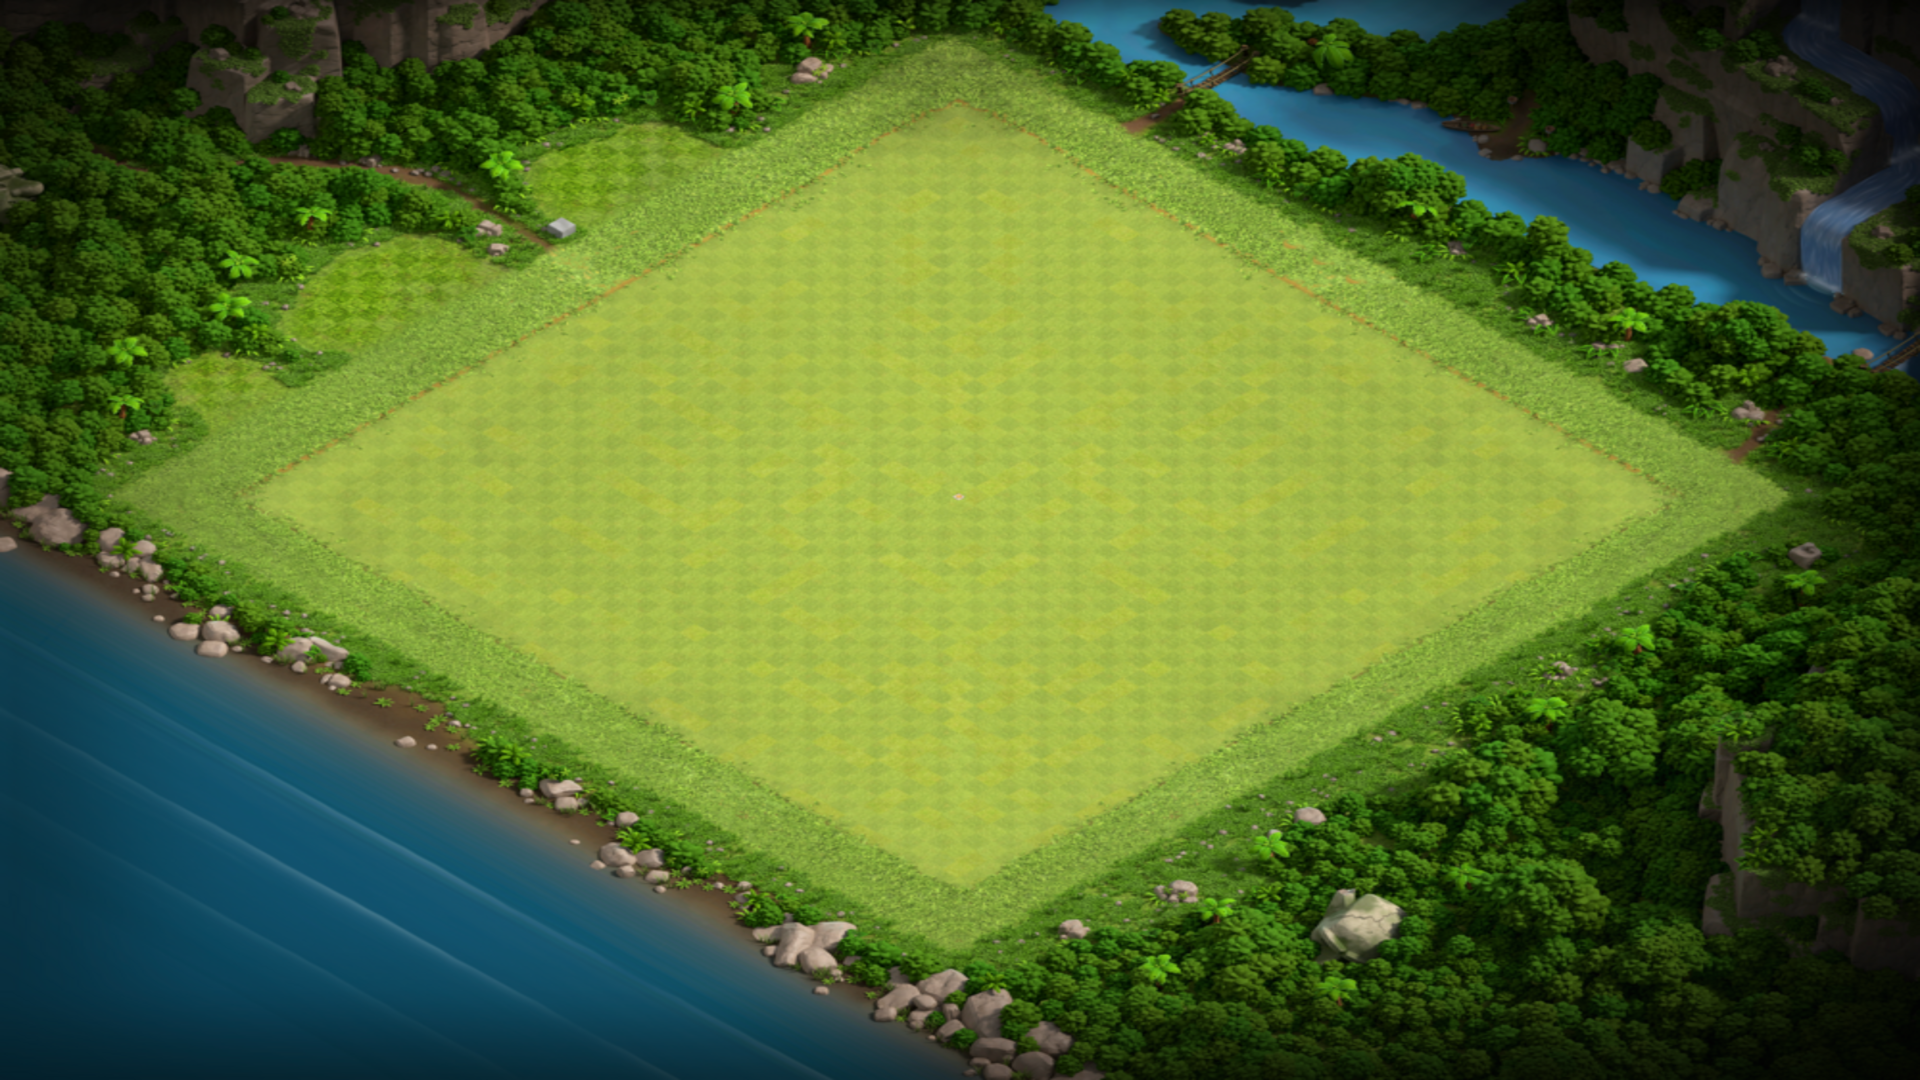
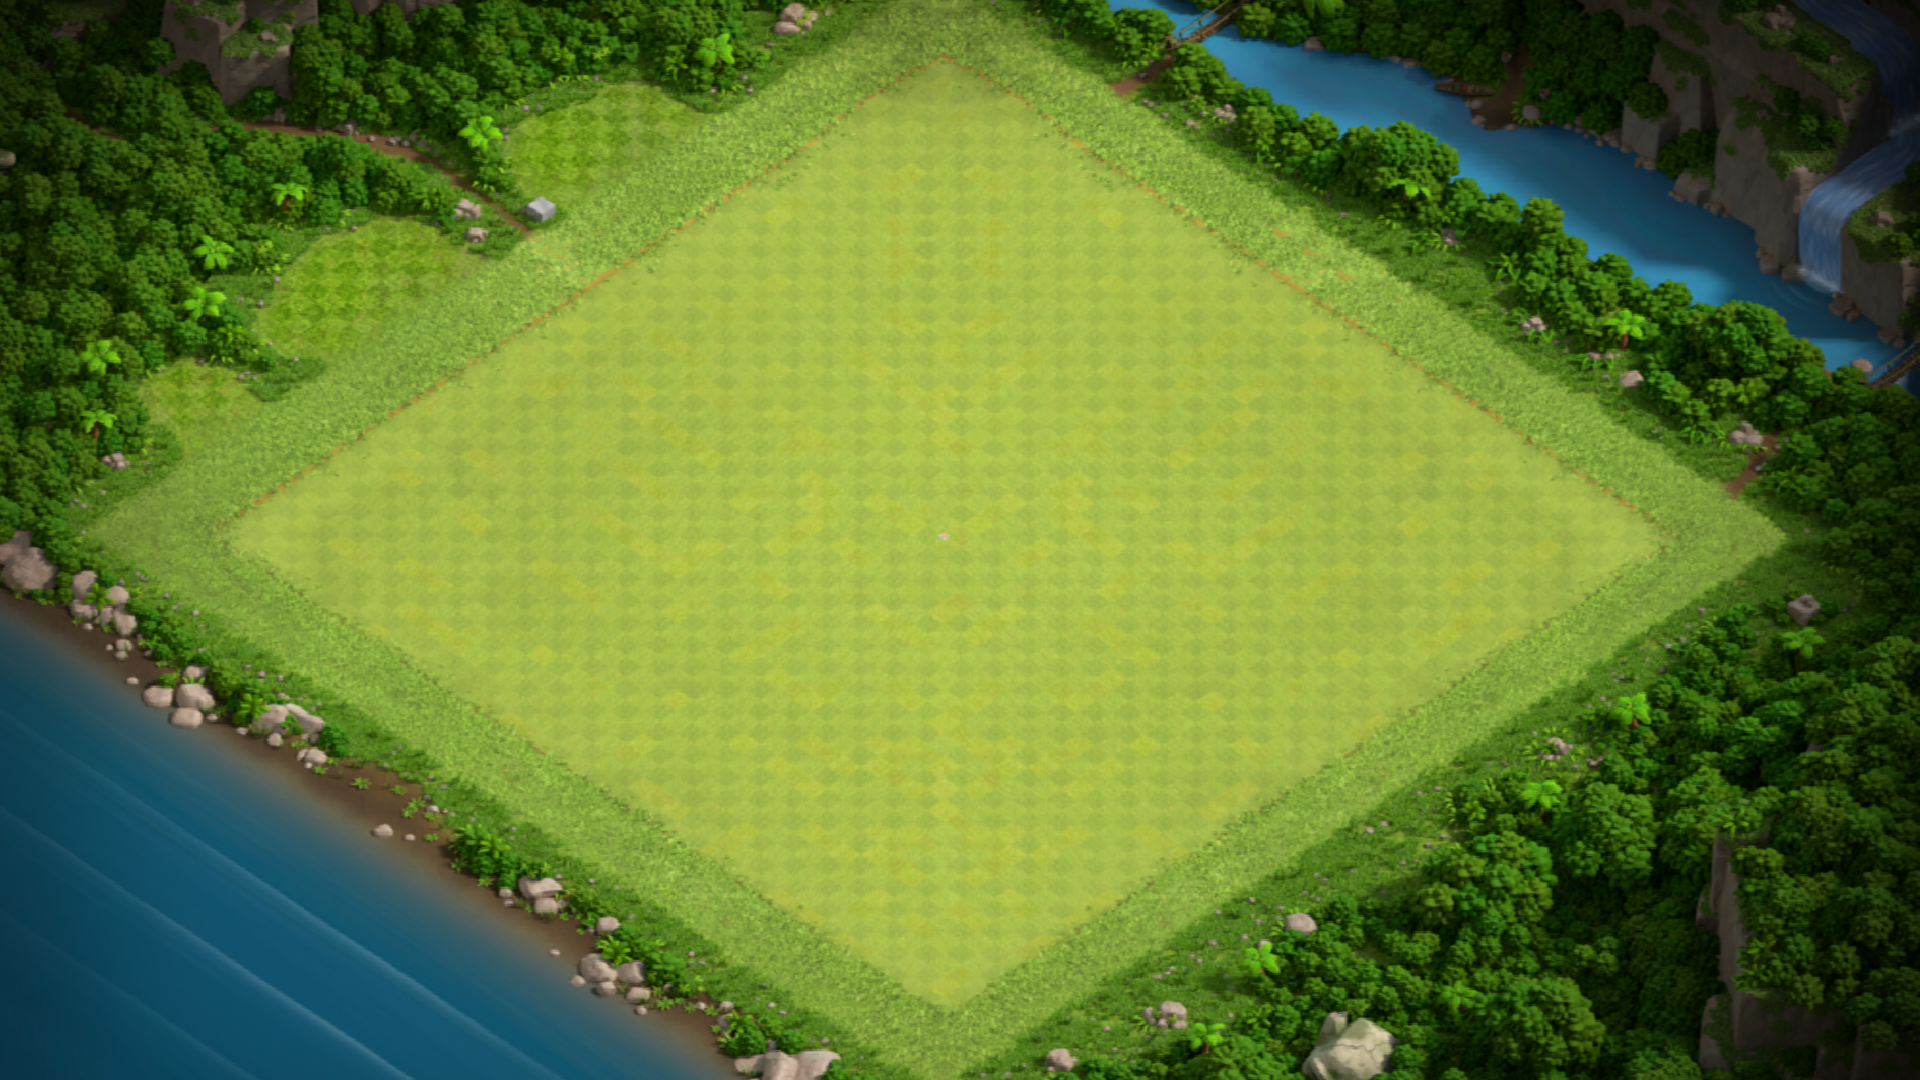
[V2.3] + new map + fix unground when place bat

diff --git a/place_bat.c b/place_bat.c
@@ -9,16 +9,18 @@
 
 void drop_cannon(global *game, shop *my_shop)
 {
-    sfColor opacity_up = {255 ,255, 255, 255};
-    sfColor opacity_none = {255 ,255, 255, 0};
+    sfColor opacity_up = {255, 255, 255, 255};
+    sfColor opacity_none = {255, 255, 255, 0};
 
     sfSprite_setColor(my_shop->s_cannon, opacity_up);
-    sfSprite_setTexture(my_shop->s_cannon,my_shop->t_cannon, sfFalse);
+    sfSprite_setTexture(my_shop->s_cannon, my_shop->t_cannon, sfFalse);
     sfCircleShape_setFillColor(game->radius, opacity_none);
-    if (game->on_map == 0 && game->first->gold >= 75 && my_shop->pos_cannon.x == game->pos_free.x && my_shop->pos_cannon.y == game->pos_free.y) {
+    if (game->on_map == 0 && game->first->gold >= 75 && my_shop->pos_cannon.x == game->pos_free.x && my_shop->pos_cannon.y == game->pos_free.y)
+    {
         get_last(game, my_shop->pos_cannon, 1);
         game->first->gold -= 75;
         sfSound_play(game->sounds->anvil);
+        game->unground = 1;
     }
     my_shop->pos_cannon.x = 0;
     my_shop->pos_cannon.y = 150;
@@ -28,16 +30,19 @@ void drop_cannon(global *game, shop *my_shop)
 
 void drop_archer(global *game, shop *my_shop)
 {
-    sfColor opacity_up = {255 ,255, 255, 255};
-    sfColor opacity_none = {255 ,255, 255, 0};
+    sfColor opacity_up = {255, 255, 255, 255};
+    sfColor opacity_none = {255, 255, 255, 0};
 
     sfSprite_setColor(my_shop->s_archer, opacity_up);
-    sfSprite_setTexture(my_shop->s_archer,my_shop->t_archer, sfFalse);
+    sfSprite_setTexture(my_shop->s_archer, my_shop->t_archer, sfFalse);
     sfCircleShape_setFillColor(game->radius, opacity_none);
-    if (game->on_map == 0 && game->first->gold >= 150 && my_shop->pos_archer.x == game->pos_free.x && my_shop->pos_archer.y == game->pos_free.y) {
-	get_last(game, my_shop->pos_archer, 2);
-	game->first->gold -= 150;
-	sfSound_play(game->sounds->anvil);
+    if (game->on_map == 0 && game->first->gold >= 150 && my_shop->pos_archer.x == game->pos_free.x && my_shop->pos_archer.y == game->pos_free.y)
+    {
+        get_last(game, my_shop->pos_archer, 2);
+        game->first->gold -= 150;
+        sfSound_play(game->sounds->anvil);
+        game->unground = 1;
+        game->unground = 1;
     }
     my_shop->pos_archer.x = 0;
     my_shop->pos_archer.y = 270;
@@ -47,16 +52,18 @@ void drop_archer(global *game, shop *my_shop)
 
 void drop_mortar(global *game, shop *my_shop)
 {
-    sfColor opacity_up = {255 ,255, 255, 255};
-    sfColor opacity_none = {255 ,255, 255, 0};
+    sfColor opacity_up = {255, 255, 255, 255};
+    sfColor opacity_none = {255, 255, 255, 0};
 
     sfSprite_setColor(my_shop->s_mortar, opacity_up);
-    sfSprite_setTexture(my_shop->s_mortar,my_shop->t_mortar, sfFalse);
+    sfSprite_setTexture(my_shop->s_mortar, my_shop->t_mortar, sfFalse);
     sfCircleShape_setFillColor(game->radius, opacity_none);
-    if (game->on_map == 0 && game->first->gold >= 300 && my_shop->pos_mortar.x == game->pos_free.x && my_shop->pos_mortar.y == game->pos_free.y) {
-	get_last(game, my_shop->pos_mortar, 3);
-	game->first->gold -= 300;
-	sfSound_play(game->sounds->anvil);
+    if (game->on_map == 0 && game->first->gold >= 300 && my_shop->pos_mortar.x == game->pos_free.x && my_shop->pos_mortar.y == game->pos_free.y)
+    {
+        get_last(game, my_shop->pos_mortar, 3);
+        game->first->gold -= 300;
+        sfSound_play(game->sounds->anvil);
+        game->unground = 1;
     }
     my_shop->pos_mortar.x = 0;
     my_shop->pos_mortar.y = 390;
@@ -66,17 +73,19 @@ void drop_mortar(global *game, shop *my_shop)
 
 void drop_air_defence(global *game, shop *my_shop)
 {
-    sfColor opacity_up = {255 ,255, 255, 255};
-    sfColor opacity_none = {255 ,255, 255, 0};
+    sfColor opacity_up = {255, 255, 255, 255};
+    sfColor opacity_none = {255, 255, 255, 0};
 
     sfSprite_setColor(my_shop->s_air_defence, opacity_up);
-    sfSprite_setTexture(my_shop->s_air_defence,my_shop->t_air_defence, sfFalse);
+    sfSprite_setTexture(my_shop->s_air_defence, my_shop->t_air_defence, sfFalse);
     sfCircleShape_setFillColor(game->radius, opacity_none);
     if (game->on_map == 0 && game->first->gold >= 1300 && my_shop->pos_air_defence.x == game->pos_f\
-ree.x && my_shop->pos_air_defence.y == game->pos_free.y) {
-	get_last(game, my_shop->pos_air_defence, 4);
-	game->first->gold -= 1300;
-	sfSound_play(game->sounds->anvil);
+ree.x && my_shop->pos_air_defence.y == game->pos_free.y)
+    {
+        get_last(game, my_shop->pos_air_defence, 4);
+        game->first->gold -= 1300;
+        sfSound_play(game->sounds->anvil);
+        game->unground = 1;
     }
     my_shop->pos_air_defence.x = 0;
     my_shop->pos_air_defence.y = 510;
@@ -86,18 +95,20 @@ ree.x && my_shop->pos_air_defence.y == game->pos_free.y) {
 
 void drop_xbow(global *game, shop *my_shop)
 {
-    sfColor opacity_up = {255 ,255, 255, 255};
-    sfColor opacity_none = {255 ,255, 255, 0};
+    sfColor opacity_up = {255, 255, 255, 255};
+    sfColor opacity_none = {255, 255, 255, 0};
 
     sfSprite_setColor(my_shop->s_xbow, opacity_up);
-    sfSprite_setTexture(my_shop->s_xbow,my_shop->t_xbow, sfFalse);
+    sfSprite_setTexture(my_shop->s_xbow, my_shop->t_xbow, sfFalse);
     sfCircleShape_setFillColor(game->radius, opacity_none);
-    sfCircleShape_setRadius(game->radius , 200);
+    sfCircleShape_setRadius(game->radius, 200);
     if (game->on_map == 0 && game->first->gold >= 7000 && my_shop->pos_xbow.x == game->pos_f\
-ree.x && my_shop->pos_xbow.y == game->pos_free.y) {
-	get_last(game, my_shop->pos_xbow, 5);
-	game->first->gold -= 7000;
-	sfSound_play(game->sounds->anvil);
+ree.x && my_shop->pos_xbow.y == game->pos_free.y)
+    {
+        get_last(game, my_shop->pos_xbow, 5);
+        game->first->gold -= 7000;
+        sfSound_play(game->sounds->anvil);
+        game->unground = 1;
     }
     my_shop->pos_xbow.x = 0;
     my_shop->pos_xbow.y = 630;
@@ -107,18 +118,20 @@ ree.x && my_shop->pos_xbow.y == game->pos_free.y) {
 
 void drop_wizard(global *game, shop *my_shop)
 {
-    sfColor opacity_up = {255 ,255, 255, 255};
-    sfColor opacity_none = {255 ,255, 255, 0};
+    sfColor opacity_up = {255, 255, 255, 255};
+    sfColor opacity_none = {255, 255, 255, 0};
 
     sfSprite_setColor(my_shop->s_wizard, opacity_up);
-    sfSprite_setTexture(my_shop->s_wizard,my_shop->t_wizard, sfFalse);
+    sfSprite_setTexture(my_shop->s_wizard, my_shop->t_wizard, sfFalse);
     sfCircleShape_setFillColor(game->radius, opacity_none);
-    sfCircleShape_setRadius(game->radius , 90);
+    sfCircleShape_setRadius(game->radius, 90);
     if (game->on_map == 0 && game->first->gold >= 3000 && my_shop->pos_wizard.x == game->pos_f\
-ree.x && my_shop->pos_wizard.y == game->pos_free.y) {
-	get_last(game, my_shop->pos_wizard, 6);
-	game->first->gold -= 3000;
-	sfSound_play(game->sounds->anvil);
+ree.x && my_shop->pos_wizard.y == game->pos_free.y)
+    {
+        get_last(game, my_shop->pos_wizard, 6);
+        game->first->gold -= 3000;
+        sfSound_play(game->sounds->anvil);
+        game->unground = 1;
     }
     my_shop->pos_wizard.x = 0;
     my_shop->pos_wizard.y = 750;

diff --git a/game.c b/game.c
@@ -193,7 +193,7 @@ void take_cell(global *game, int pos, struct grid_cell *new, shop *my_shop)
 {
     if (new->g_pos == pos && new->status == 1)
     {
-        new->status = 3;                                                      // A MODIIFIER
+        new->status = 3; // A MODIIFIER
         add_ground(game, new, my_shop);
     }
     if (new->g_pos != 196)
@@ -204,7 +204,7 @@ void check_click(global *game, struct grid_cell *grid_cell, shop *my_shop)
 {
     sfVector2i pos_mouse = sfMouse_getPosition((sfWindow *)game->window);
 
-if ((abs(pos_mouse.x - 25 - grid_cell->p_5.x)) * (abs(pos_mouse.x - 25 - grid_cell->p_5.x)) +
+    if ((abs(pos_mouse.x - 25 - grid_cell->p_5.x)) * (abs(pos_mouse.x - 25 - grid_cell->p_5.x)) +
             (abs(pos_mouse.y - 25 - grid_cell->p_5.y)) * (abs(pos_mouse.y - 25 - grid_cell->p_5.y)) <
         900)
     { // Test si cliqué.
@@ -305,8 +305,8 @@ void start_game(global *game)
         (game->shop_is_open == 0) ? open_shop(game, my_shop) : 1;
         draw_enemy(game, &enemy_f);
         // sfRenderWindow_drawSprite(game->window, enemy_f.enemy_1, sfFalse);
-        sfRenderWindow_display(game->window);
         check_game_event(game, my_shop);
+        sfRenderWindow_display(game->window);
         check_click(game, &grid_cell, my_shop); // Regarde les inputs.
     }
 }

diff --git a/set_hdv.c b/set_hdv.c
@@ -51,7 +51,7 @@ batiment *add_bat(global *game, batiment *prev, sfVector2f pos, int name)
     sfSprite_setTexture(new_bat->bat, new_bat->t_bat, sfFalse);
     new_bat->pos.x = pos.x;
     new_bat->pos.y = pos.y;
-    new_bat->name = 1;
+    new_bat->name = name;
     sfSprite_setPosition(new_bat->bat, new_bat->pos);
     sfText_setColor(new_bat->level_str, sfBlue);
     add_bat_buttons(game, new_bat);

diff --git a/actions_bat.c b/actions_bat.c
@@ -28,7 +28,6 @@ void up_struct(global *game, batiment *bat)
         bat->stats->damage *= 1.5;
         bat->stats->price *= 1.5;
         bat->stats->pv *= 1.5;
-        bat->on_bat = 1;
         if (bat->name == -1) {
             game->level += 1;
             set_texture_hdv(game, bat);
